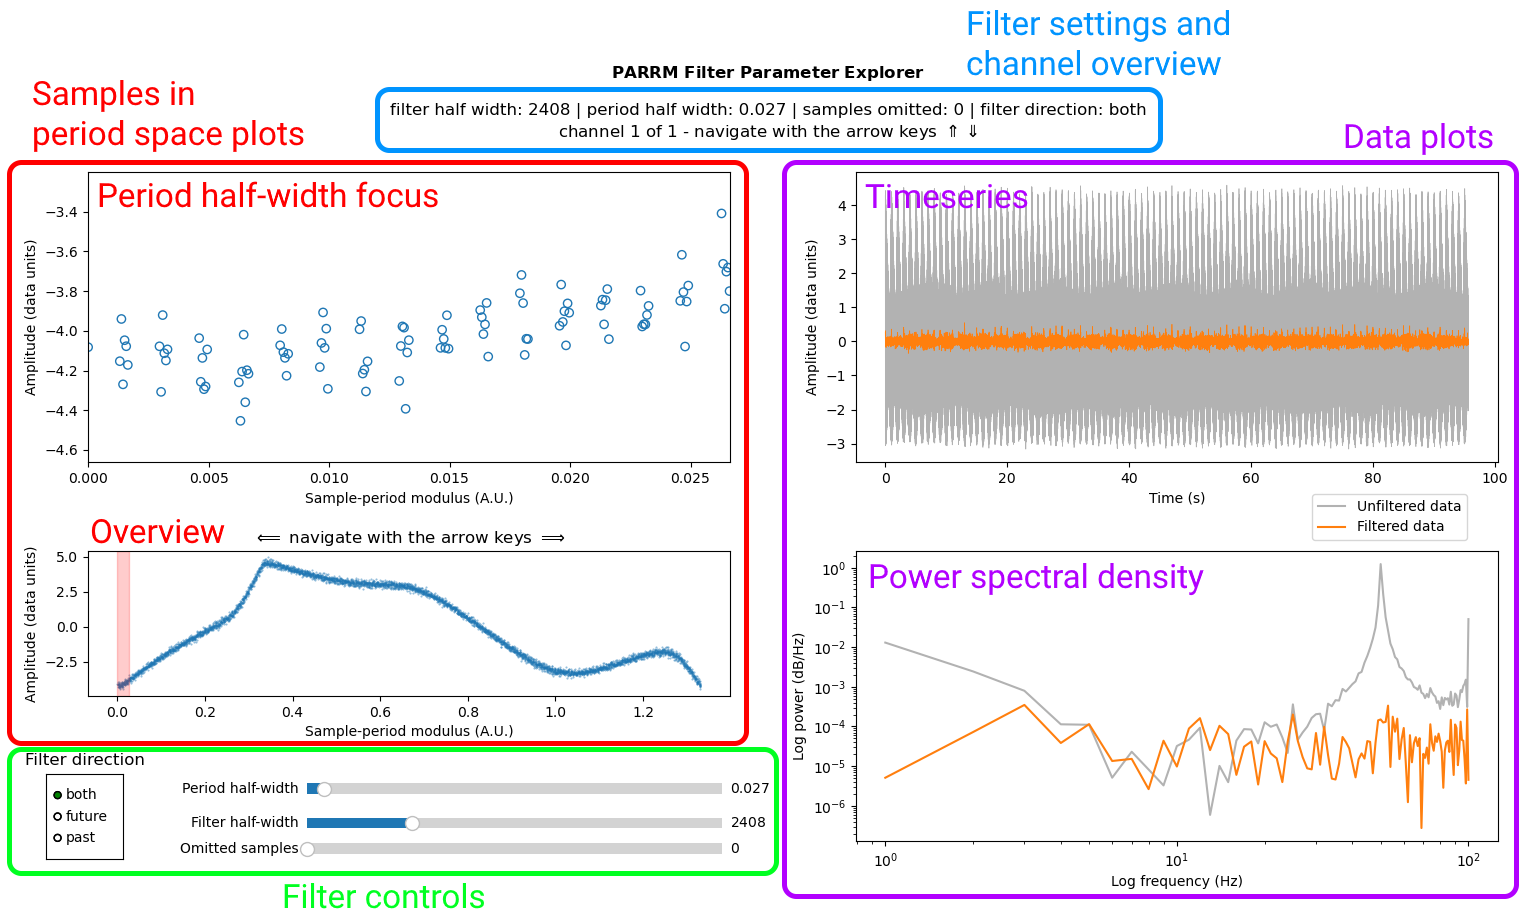
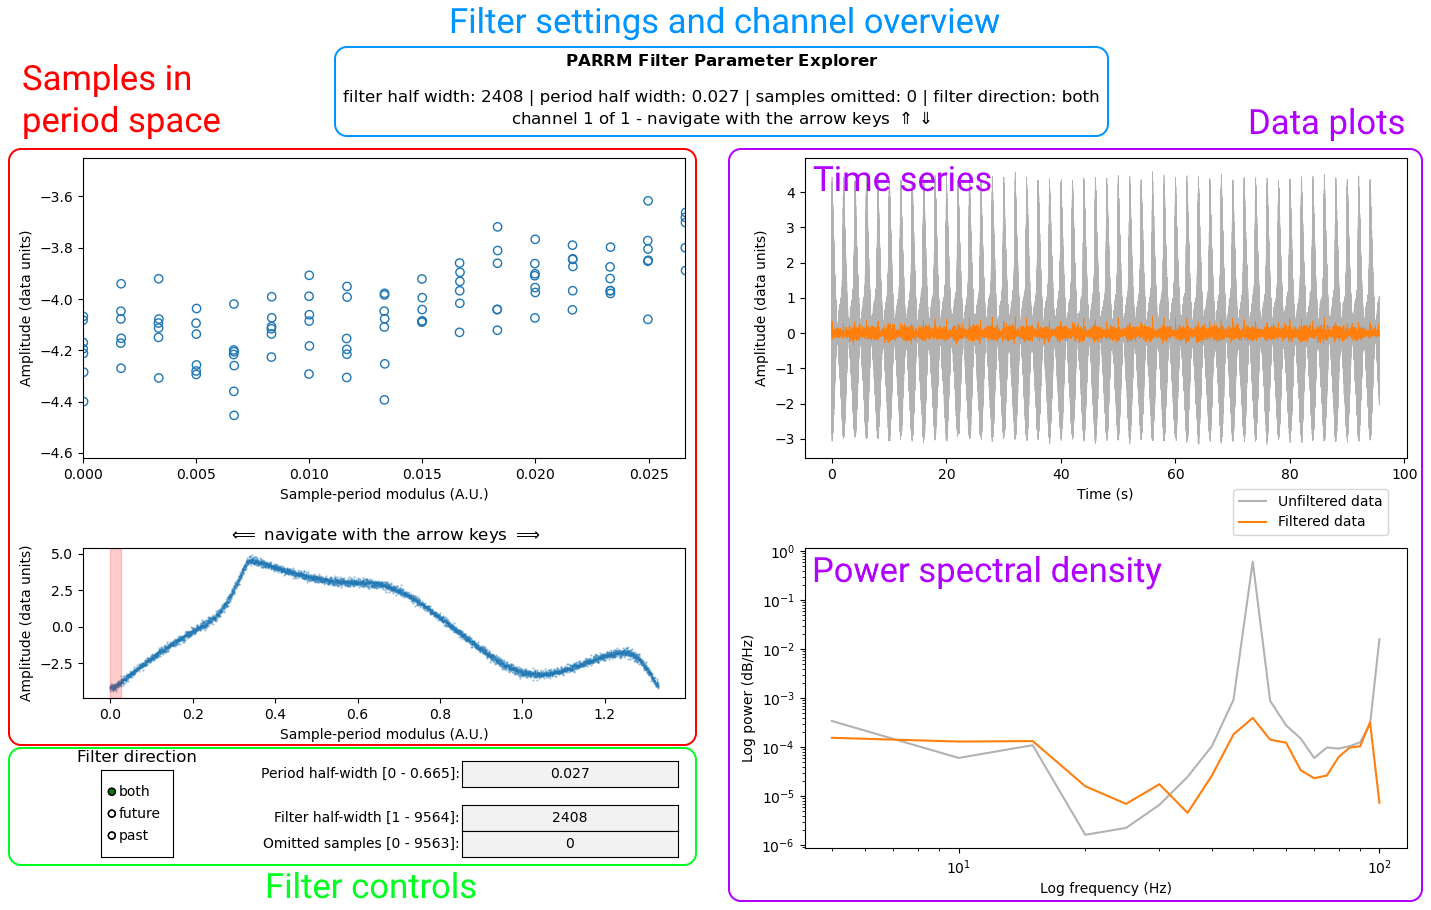
updated examples

diff --git a/examples/plot_use_param_explorer.py b/examples/plot_use_param_explorer.py
@@ -34,8 +34,12 @@ used to find the best filter settings for your data.
 #    in the waveform of the artefact. This parameter controls which samples are
 #    combined on the timescale of the period.
 #
-# Visualising the effects of these parameters can help greatly for identifying
-# the best settings to use when creating a filter for your data.
+# These parameters are described in detail in Dastin *et al.* (2021)
+# :footcite:`DastinEtAl2021` and the supplementary `video
+# <https://ars.els-cdn.com/content/image/1-s2.0-S2667237521000102-mmc2.mp4>`_
+# from the paper's authors. Crucially, visualising the effects of these
+# parameters can help greatly for identifying the best settings to use when
+# creating a filter for your data.
 
 ###############################################################################
 # Exploring the filter parameters
@@ -49,13 +53,14 @@ used to find the best filter settings for your data.
 #
 # The explorer consists of four plots, and a set of controls:
 #
-# * The sliders and buttons in the bottom left of the explorer allow you to
+# * The textboxes and buttons in the bottom left of the explorer allow you to
 #   manipulate the filter settings. The default settings of the explorer
 #   reflect the settings that would be used when computing the filter if you
 #   did not specify any inputs. You can change: the period half-width
 #   (``period_half_width``); the filter half-width (``filter_half_width``);
 #   the number of omitted samples (``omit_n_samples``); and the filter
-#   direction (``filter_direction``).
+#   direction (``filter_direction``). The ranges of possible values that can be
+#   entered in the textboxes are shown in brackets.
 #
 # * The top left plot shows the data samples in the period space according to
 #   the current period half-width. Just below this is an overview plot of all
@@ -74,16 +79,16 @@ used to find the best filter settings for your data.
 #   updated in real-time according to changes in the filter settings. The
 #   power spectral density is particularly useful for identifying which filters
 #   reduce the signal's power at the artefact frequency (as well as at the
-#   harmonics and sub-harmonics).
+#   harmonics and sub-harmonics). In some cases, the filter settings may not
+#   produce a valid filter, in which case a warning on the time domain plot
+#   will be printed.
 #
 # If computational cost is a concern, a limited time range of the data and its
 # resolution can be specified, as well as the frequency range and resolution of
-# the power spectral density.
-#
-# If multiple channels are present in your data, these can be navigated between
-# using the up and down arrow keys. Finally, the title of the explorer gives
-# you an overview of the current filter settings, as well as which channel's
-# data is currently being viewed.
+# the power spectral density. If multiple channels are present in your data,
+# these can be navigated between using the up and down arrow keys. Finally, the
+# title of the explorer gives you an overview of the current filter settings,
+# as well as which channel's data is currently being viewed.
 #
 # The method can be called as ``parrm.explore_filter_params()``. The image
 # below shows the different aspects of the parameter explorer window.

diff --git a/examples/plot_use_parrm.py b/examples/plot_use_parrm.py
@@ -36,8 +36,8 @@ from pyparrm import PARRM
 # data, we will start by loading some example data. This is the same example
 # data used in the MATLAB implementation of the method
 # (https://github.com/neuromotion/PARRM), consisting of a single channel
-# with 19,130 timepoints (around 100 seconds), a sampling frequency of 200 Hz,
-# and containing stimulation artefacts with a frequency of 150 Hz.
+# with ~100 seconds of data at a sampling frequency of 200 Hz, and containing
+# stimulation artefacts with a frequency of 150 Hz.
 
 # %%
 
@@ -46,7 +46,9 @@ sampling_freq = 200  # Hz
 artefact_freq = 150  # Hz
 
 print(
-    f"`data` has shape: ({data.shape[0]} channel, {data.shape[1]} timepoints)"
+    f"`data` has shape: ({data.shape[0]} channel, "
+    f"{data.shape[1]} timepoints)\n"
+    f"`data` duration: {data.shape[1] / sampling_freq :.2f} seconds"
 )
 
 ###############################################################################
@@ -82,7 +84,7 @@ parrm = PARRM(
 )
 parrm.find_period()
 
-print(f"Estimated artefact period: {parrm.period:.4f}")
+print(f"Estimated artefact period: {parrm.period :.4f}")
 
 ###############################################################################
 # Creating the filter and removing the artefacts

diff --git a/examples/plot_example_dbs_data.py b/examples/plot_example_dbs_data.py
@@ -97,9 +97,9 @@ parrm.create_filter(period_half_width=0.01, filter_half_width=5000)
 filtered_data = parrm.filter_data()
 
 print(
-    f"Artefact period (ECoG & LFP): {parrm.period:.7f}\n"
-    f"Artefact period (only ECoG):  {parrm_ecog.period:.7f}\n"
-    f"Artefact period (only LFP):   {parrm_lfp.period:.7f}"
+    f"Artefact period (ECoG & LFP): {parrm.period :.7f}\n"
+    f"Artefact period (only ECoG):  {parrm_ecog.period :.7f}\n"
+    f"Artefact period (only LFP):   {parrm_lfp.period :.7f}"
 )
 
 ###############################################################################
